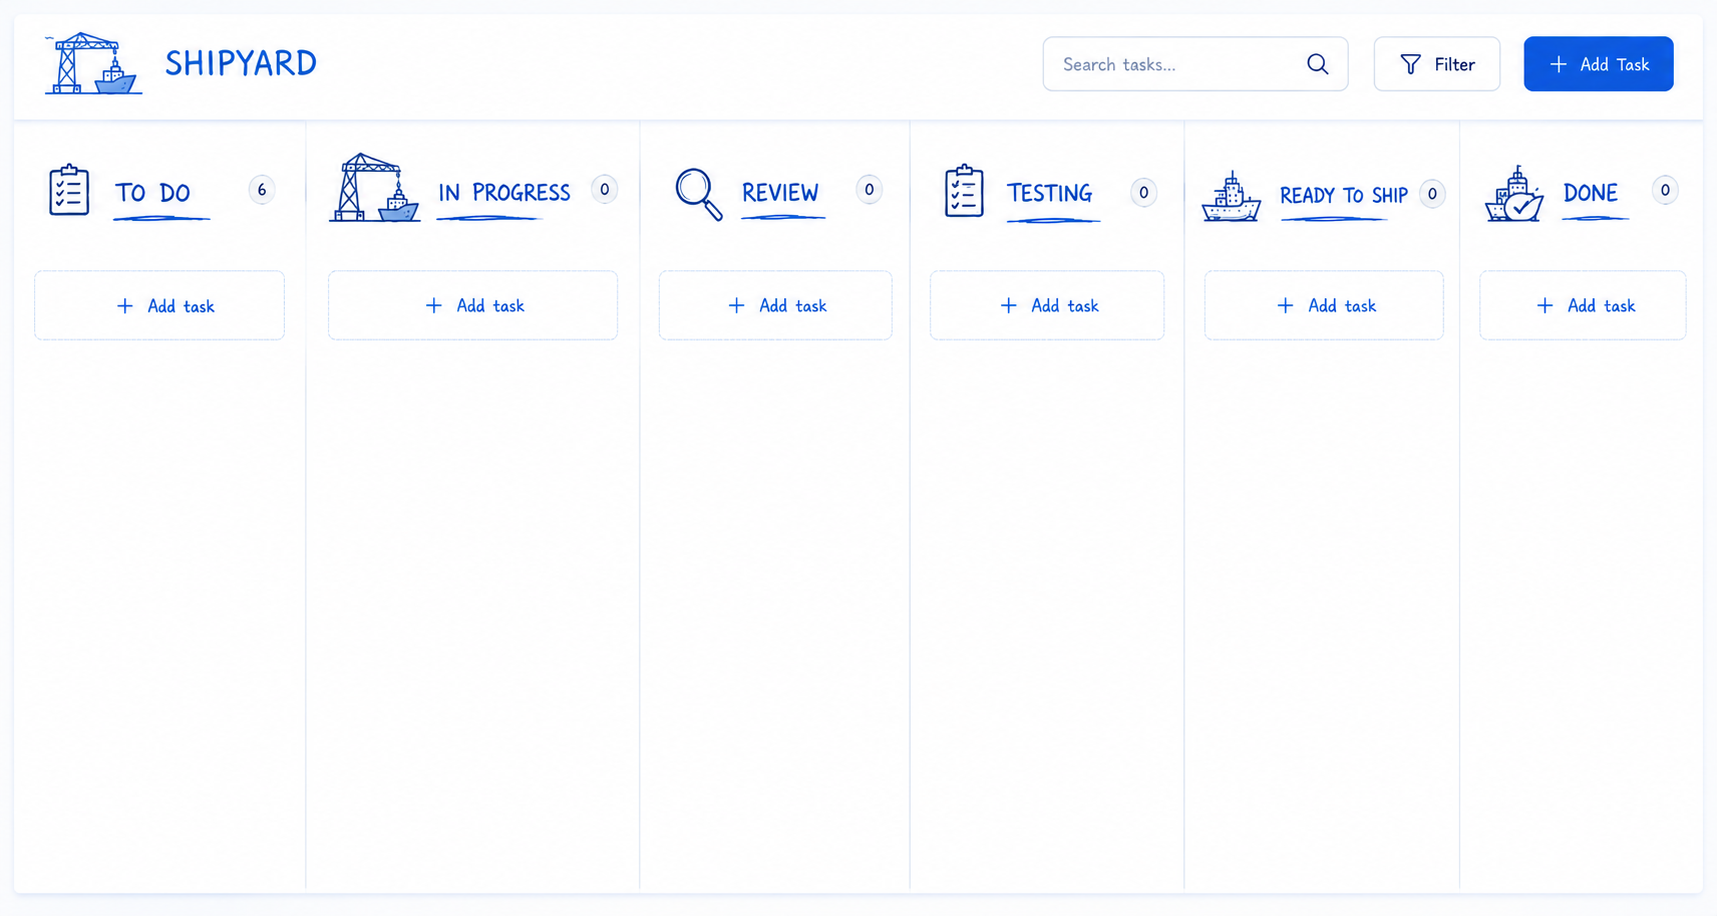
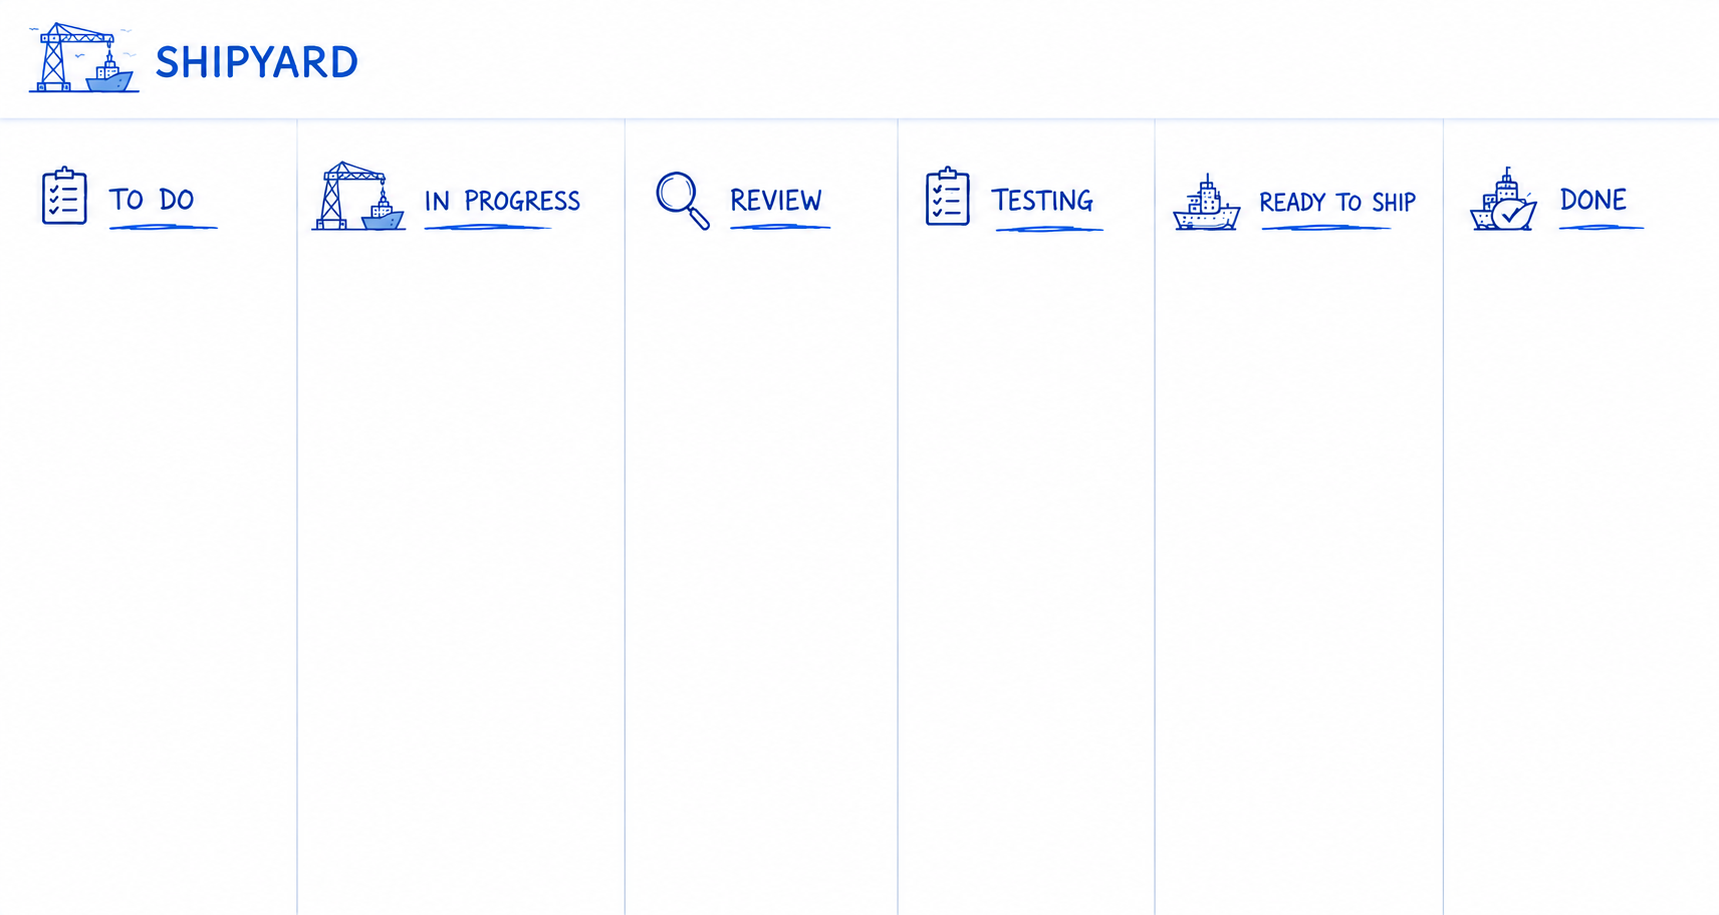
Update Shipyard board image and controls

diff --git a/shipyard/server.py b/shipyard/server.py
@@ -8,6 +8,7 @@ from typing import Any
 from flask import Flask, jsonify, Response
 
 from shipyard.config import Settings, load_settings
+from shipyard.demo_seed import seed_demo
 
 
 def create_app(settings: Settings | None = None) -> Flask:
@@ -21,6 +22,11 @@ def create_app(settings: Settings | None = None) -> Flask:
     @app.get("/api/tickets")
     def api_tickets() -> Any:
         return jsonify({"tickets": collect_tickets(settings.inbox_dir)})
+
+    @app.route("/api/demo/seed", methods=["GET", "POST"])
+    def api_seed_demo() -> Any:
+        request_dir = seed_demo(settings)
+        return jsonify({"ok": True, "request_dir": str(request_dir)})
 
     @app.get("/evals-dashboard")
     def evals_dashboard() -> Response:
@@ -40,10 +46,6 @@ def run_server(settings: Settings) -> None:
 
 def main() -> None:
     run_server(load_settings())
-
-
-if __name__ == "__main__":
-    main()
 
 
 def collect_tickets(inbox_dir: Path) -> list[dict[str, Any]]:
@@ -102,7 +104,11 @@ def _board_html() -> str:
     :root { color-scheme: light; font-family: "Comic Sans MS", "Bradley Hand", "Segoe Print", ui-rounded, system-ui, sans-serif; --ink: #0645a8; --line: #d8e4f2; }
     * { box-sizing: border-box; }
     body { margin: 0; min-height: 100vh; background: #eef6fd; color: #17202a; display: grid; place-items: start center; }
-    .shell { position: relative; width: min(100vw - 18px, 1717px); aspect-ratio: 1717 / 916; margin: 10px auto; background: url("/static/shipyard-board-base.png") center / 100% 100% no-repeat; border-radius: 10px; box-shadow: 0 16px 38px rgba(26, 68, 111, .16); overflow: hidden; }
+    .shell { position: relative; width: min(100vw - 18px, 1719px); aspect-ratio: 1719 / 915; margin: 10px auto; background: url("/static/shipyard-board-base.png") center / 100% 100% no-repeat; border-radius: 10px; box-shadow: 0 16px 38px rgba(26, 68, 111, .16); overflow: hidden; }
+    .overlay-controls { position: absolute; z-index: 8; top: 4.05%; right: 2.55%; display: flex; align-items: center; gap: clamp(8px, 1.4vw, 20px); font-family: Inter, system-ui, sans-serif; pointer-events: auto; }
+    .overlay-btn { height: clamp(40px, 4.15vw, 55px); min-width: clamp(92px, 8.8vw, 150px); border: 1.5px solid #c9dbef; border-radius: 8px; background: rgba(255,255,255,.92); color: var(--ink); display: inline-flex; align-items: center; justify-content: center; gap: 8px; font-size: clamp(13px, 1.05vw, 18px); font-weight: 800; box-shadow: 0 8px 18px rgba(22, 77, 143, .08); cursor: pointer; }
+    .overlay-btn:hover { transform: translateY(-1px); box-shadow: 0 10px 22px rgba(22, 77, 143, .14); }
+    .overlay-btn.primary { background: #075ed8; color: #fff; border-color: #075ed8; }
     header { display: none; }
     .brand { display: flex; align-items: center; gap: 15px; color: var(--ink); }
     .logo { width: 90px; height: 48px; }
@@ -159,6 +165,12 @@ def _board_html() -> str:
 </head>
 <body>
   <div class="shell">
+    <div class="overlay-controls" aria-label="Shipyard board controls">
+      <a class="overlay-btn" href="/evals-dashboard">Evaluation</a>
+      <button class="overlay-btn" type="button" onclick="seedDemo()">Seed Demo</button>
+      <button class="overlay-btn" type="button" onclick="load()">Refresh</button>
+      <button class="overlay-btn primary" type="button" onclick="toggleNotes()">Notes</button>
+    </div>
     <header>
       <div class="brand">
         <svg class="logo" viewBox="0 0 120 62" aria-hidden="true">
@@ -193,6 +205,7 @@ def _board_html() -> str:
     };
     let previous = JSON.parse(localStorage.getItem("shipyard-statuses") || "{}");
     let latestTickets = [];
+    let notesVisible = true;
     async function load() {
       const res = await fetch("/api/tickets");
       const data = await res.json();
@@ -210,10 +223,18 @@ def _board_html() -> str:
       }
       document.getElementById("board").innerHTML = columns.map(status => `
         <section class="column"><h2><span class="icon">${icons[status]}</span><span class="underline">${labels[status]}</span></h2>
-          <div class="cards">${(byStatus[status] || []).map(card).join("")}</div>
+          <div class="cards">${notesVisible ? (byStatus[status] || []).map(card).join("") : ""}</div>
         </section>`).join("");
       previous = next;
       localStorage.setItem("shipyard-statuses", JSON.stringify(next));
+    }
+    async function seedDemo() {
+      await fetch("/api/demo/seed", { method: "POST" });
+      await load();
+    }
+    function toggleNotes() {
+      notesVisible = !notesVisible;
+      load();
     }
     function esc(value) { return String(value || "").replace(/[&<>"']/g, m => ({'&':'&amp;','<':'&lt;','>':'&gt;','"':'&quot;',"'":'&#39;'}[m])); }
     function mapStatus(status) {
@@ -303,3 +324,7 @@ def _evals_html() -> str:
   </script>
 </body>
 </html>"""
+
+
+if __name__ == "__main__":
+    main()